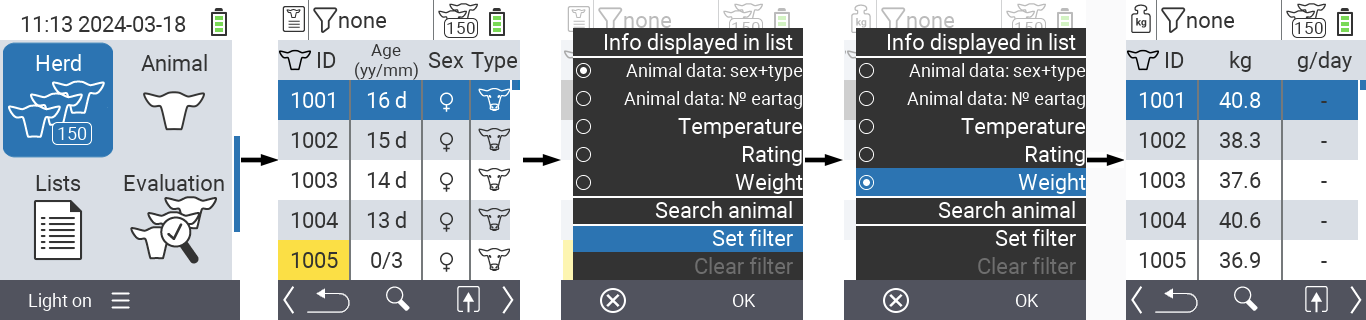
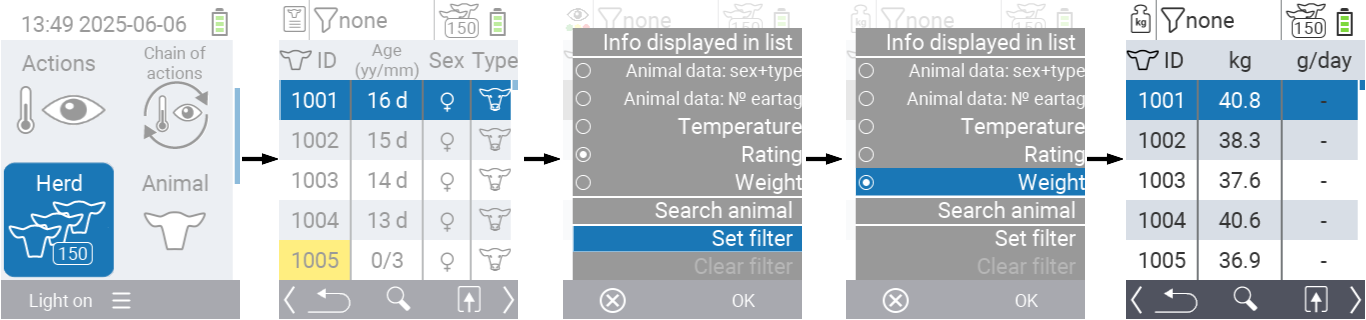
Menü 'Herde' restructure (#227)
* Restructure Herd description

* Changed structure and images after review

* Translation changing and restructure images

* Opacity to images added

* Final changes

diff --git a/content/en/docs/herd/_index.md b/content/en/docs/herd/_index.md
@@ -10,109 +10,135 @@ description: >
 categories: [Herd]
 tags: [Herd, Temperature, Weight, Rating, Animal data]
 translationKey: herd
+maphilight: true
 ---
-## Herd {#herd}
 
-Within the Herd menu item, you can view your entire herd, search for individual animals and display important information. You have the following possibilities:
+In this menu you have the following possibilities:
 
-- View [animal data](#view-animal-data)
-- View [temperature data](#display-temperature)
-- View [rating data](#view-rating)
-- View [weight data](#view-rating)
-- [Search animal](#search-animal)
-- Set [filter](#set-filter)
-- [Actions](#call-action-menu)
+- Perfom an [action](#call-action-menu) for the selected animal <img src="/digits/1_negative_circled.svg" width="20" align="middle" id="FigureOverview_Digit_1" alt="Circled digit 1" title="Digit 1"/>
+- [Search](#search-for-an-animal) or [filter](#apply-a-filter) animals  <img src="/digits/2_negative_circled.svg" width="20" align="middle" id="FigureOverview_Digit_2" alt="Circled digit 2" title="Digit 2"/>
+- [Configure display settings](#configure-display-settings) <img src="/digits/3_negative_circled.svg" width="20" align="middle" id="FigureOverview_Digit_3" alt="Circled digit 3" title="Digit 3"/>
 
-### Preparatory steps {#preparatory-steps}
+<figure class="figure" style="margin-top: 5px;">
+    <img src="images/overview.png" id="FigureOverview" usemap="#FigureOverviewMap" style="max-width: 60%;" class="border border-2 figure-img img-fluid rounded p-3" align="bottom" alt="Herd: Available options in Herd menu" title="Herd: Available options in Herd menu" />
+    <figcaption class="figure-caption fs-6"> Figure 1: <span style="font-style: italic;">Available options in Herd menu</figcaption>
+</figure>
 
-1. On the main screen of your VitalControl device, select the menu item <img src="/icons/main/herd.svg" width="60" align="bottom" alt="Herd" /> `{{<T "Herd" >}}` and press the `{{<T "Ok" >}}` button.
-
-2. Your herd overview opens.
-
-    ![VitalControl: Menu Herd](images/herde.png "Herd")
-
-### View animal data {#view-animal-data}
-
-1. Complete the preparatory steps.
-
-2. Use the `F3` key &nbsp;<img src="/icons/footer/open-popup.svg" width="15" align="bottom" alt="Open popup" />&nbsp; to invoke a popup menu that lists the information categories that can be displayed for the herd list. Use the arrow keys △ ▽ to highlight the line `{{<T "AnimalDataGenderType" >}}` or `{{<T "AnimalDataEartag" >}}` and select this category by pressing the central `{{<T "Ok" >}}` button or the `F3` key `{{<T "Ok" >}}`. The two selection options differ in the display of the information bar.
-
-3. Animal data will now be displayed as content of the herd list.
-
-4. Alternatively, you can use the arrow keys ◁ ▷ to switch between the different display options.
-
-    ![VitalControl: Menu Herd](images/animaldata.png "View animal data")
-
-{{% alert title = "Hint" %}}
-By default, the animal data is displayed first. Only when you have the weight displayed, for example, do you have to set the display of the animal data again.
-{{% /alert %}}
-
-### Display temperature {#display-temperature}
-
-1. Complete the preparatory steps.
-
-2. Use the `F3` key &nbsp;<img src="/icons/footer/open-popup.svg" width="15" align="bottom" alt="Open popup" />&nbsp; to invoke a popup menu that lists the information categories that can be displayed for the herd list. Use the arrow keys △ ▽ to highlight the line `{{<T "Temperature" >}}` and select this category by pressing the central `{{<T "Ok" >}}` button or the `F3` key `{{<T "Ok" >}}`.
-
-3. Temperature data will now be displayed as content of the herd list.
-
-4. Alternatively, you can use the arrow keys ◁ ▷ to switch between the different display options.
-
-    ![VitalControl: Menu Herd](images/temperature.png "Display temperature")
-
-### View rating {#view-rating}
-
-1. Complete the preparatory steps.
-
-2. Use the `F3` key &nbsp;<img src="/icons/footer/open-popup.svg" width="15" align="bottom" alt="Open popup" />&nbsp; to invoke a popup menu that lists the information categories that can be displayed for the herd list. Use the arrow keys △ ▽ to highlight the line `{{<T "Rating" >}}` and select this category by pressing the central `{{<T "Ok" >}}` button or the `F3` key `{{<T "Ok" >}}`.
-
-3. Rating data will now be displayed as content of the herd list.
-
-4. Alternatively, you can use the arrow keys ◁ ▷ to switch between the different display options.
-
-    ![VitalControl: Menu Herd](images/rating.png "View rating")
-
-### Display weight {#display-weight}
-
-1. Complete the preparatory steps.
-
-2. Use the `F3` key &nbsp;<img src="/icons/footer/open-popup.svg" width="15" align="bottom" alt="Open popup" />&nbsp; to invoke a popup menu that lists the information categories that can be displayed for the herd list. Use the arrow keys △ ▽ to highlight the line `{{<T "Weight" >}}` and select this category by pressing the central `{{<T "Ok" >}}` button or the `F3` key `{{<T "Ok" >}}`.
-
-3. Weight data will now be displayed as content of the herd list.
-
-4. Alternatively, you can use the arrow keys ◁ ▷ to switch between the different display options.
-
-    ![VitalControl: Menu Herd](images/weight.png "Display weight")
-
-### Search animal {#search-animal}
-
-1. Complete the preparatory steps.
-
-2. Use the `F3` key &nbsp;<img src="/icons/footer/open-popup.svg" width="15" align="bottom" alt="Open popup" />&nbsp; to invoke a popup menu that lists various options. Use the arrow keys △ ▽ to highlight the function `{{<T "SearchAnimal" >}}` and invoke the search function by pressing the central `{{<T "Ok" >}}` key or the `F3` key `{{<T "Ok" >}}`. Alternatively, you can use the `On/Off` button <img src="/icons/footer/search.svg" width="15" align="bottom" alt="Search" /> immediately after step one.
-
-3. Use the arrow keys △ ▽ ◁ ▷ to enter the desired animal number and confirm with `{{<T "Ok" >}}`.
-
-    ![VitalControl: Menu Herd](images/search.png "Search animal")
-
-### Set filter {#set-filter}
-
-1. Complete the preparatory steps.
-
-2. Use the `F3` key &nbsp;<img src="/icons/footer/open-popup.svg" width="15" align="bottom" alt="Open popup" />&nbsp; to invoke a popup menu that lists various options. Use the arrow keys △ ▽ to highlight the function `{{<T "SetFilter" >}}` and invoke the filter function by pressing the central `{{<T "Ok" >}}` key or the `F3` key `{{<T "Ok" >}}`.
-
-3. How to apply the filter can be found [here]({{< relref "../filter/" >}}).
-
-    ![VitalControl: Menu Herd](images/setfilter.png "Search animal")
+<map name="FigureOverviewMap">
+    <area shape="rect" coords="0,430,240,783" alt='{{<T "ChooseAction" >}}' title='{{<T "ChooseAction" >}}' href="#call-action-menu">
+    <area shape="rect" coords="312,430,550,783" alt='{{<T "SearchAnimal" >}}' title='{{<T "SearchAnimal" >}}' href="#search-for-an-animal">
+    <area shape="rect" coords="625,380,862,783" alt='{{<T "FurtherActions" >}}' title='{{<T "FurtherActions" >}}' href="#configure-display-settings">
+</map>
 
 ### Call action menu {#call-action-menu}
 
 You always have the option to call up the action menu for an animal.
 
-1. Complete the preparatory steps.
+1. On the main screen of your {{<T "VitalControl" >}} device, select the menu item &nbsp;<img src="/icons/main/herd.svg" width="60" align="bottom" alt="Open popup" />&nbsp; `{{<T "Herd" >}}` and press the `{{<T "Ok" >}}` button. Your herd overview opens.
 
-2. Select an animal from the list with the arrow keys △ ▽ and confirm with `{{<T "Ok" >}}`.
+2. Select an animal from the list with the arrow keys △ ▽ and confirm with `{{<T "Ok" >}}`. The action menu is now open. How to use this can be found [here](../actions).
 
-3. The action menu is now open. How to use this can be found [here](../actions).
-
-4. Return to the herd list with the `F3` key.
+4. Return to the herd list with the `F1`  &nbsp;<img src="/icons/footer/exit.svg" width="15" align="bottom" alt="Open popup" />&nbsp; key.
 
     ![VitalControl: Menu Herd](images/action.png "Call actions")
+
+### Search or filter animals {#search-or-filter-animals}
+
+It is also possible to search for a specific animal or set a filter.
+
+* `{{<T "SearchAnimal" >}}` <img src="/digits/1_negative_circled.svg" width="20" align="middle" alt="Circled digit 1" title="Digit 1"/>
+
+    Search for an animal allows you to search for an animal number using the arrow keys △ ▽ ◁ ▷. For more information about `{{<T "SearchAnimal" >}}` see [here]({{< relref "docs/filter/_index.md" >}}).
+
+* `{{<T "SetFilter" >}}` <img src="/digits/2_negative_circled.svg" width="20" align="middle" alt="Circled digit 2" title="Digit 2"/>
+
+    You can use the filter to limit which animals are displayed in the selection list. For more information about `{{<T "SetFilter" >}}` see [here]({{< relref "docs/filter/_index.md" >}}).
+
+<figure class="figure" style="margin-top: 5px;">
+    <img src="images/secondFlowChart.png" id="Figure2"  style="max-width: 60%;" class="border border-2 figure-img img-fluid rounded p-3" align="bottom" alt="Herd: Search and set filter" title="Herd: Search and set filter" />
+    <figcaption class="figure-caption fs-6">Figure 2: <span style="font-style: italic;">Search and set filter</figcaption>
+</figure>
+
+#### Search for an animal
+
+1. On the main screen of your {{<T "VitalControl" >}} device, select the menu item &nbsp;<img src="/icons/main/herd.svg" width="60" align="bottom" alt="Open popup" />&nbsp; `{{<T "Herd" >}}` and press the `{{<T "Ok" >}}` button. Your herd overview opens.
+
+1. Use the `F2` &nbsp;<img src="/icons/footer/search.svg" width="15" align="bottom" alt="Search" />&nbsp; to get to the search input. Alternatively use the `F3` key &nbsp;<img src="/icons/footer/open-popup.svg" width="15" align="bottom" alt="Open popup" />&nbsp; to invoke the popup menu that lists all the available options. Use the arrow keys △ ▽ to highlight `{{<T "SearchAnimal" >}}` and press the central `{{<T "Ok" >}}` button or the `F3` key `{{<T "Ok" >}}`.
+
+1. Further information about the search input can be found [here]().
+
+{{< tabpane >}}
+{{< tab header="Search:" text=true disabled=true />}}
+{{% tab header="Use of &nbsp;<img src='/icons/footer/search.svg' width='15' align='bottom' alt='Search' />&nbsp;" text=true %}}
+![VitalControl: Herd information display {{<T "SearchAnimal" >}}](images/searchF2.png "Display {{<T "SearchAnimal" >}} information")
+{{% /tab %}}
+{{% tab header="Use of &nbsp;<img src='/icons/footer/open-popup.svg' width='15' align='bottom' alt='Open popup' />&nbsp;" text=true %}}
+![VitalControl: Herd information display {{<T "SetFilter" >}}](images/search.png "Display {{<T "SetFilter" >}} information")
+{{% /tab %}}
+{{< /tabpane >}}
+
+#### Apply a filter
+
+1. On the main screen of your {{<T "VitalControl" >}} device, select the menu item &nbsp;<img src="/icons/main/herd.svg" width="60" align="bottom" alt="Open popup" />&nbsp; `{{<T "Herd" >}}` and press the `{{<T "Ok" >}}` button. Your herd overview opens.
+
+1. Use the `F3` key &nbsp;<img src="/icons/footer/open-popup.svg" width="15" align="bottom" alt="Open popup" />&nbsp; to invoke the popup menu that lists all the available options. Use the arrow keys △ ▽ to highlight `{{<T "SetFilter" >}}` and press the central `{{<T "Ok" >}}` button or the `F3` key `{{<T "Ok" >}}`.
+
+1. Further information about filter can be found [here](../filter/_index.md).
+
+![VitalControl: Menu Herd Filter](images/setfilter.png "Set a filter")
+
+### Configure display settings  {#configure-display-settings}
+
+Within the herd menu, you have several options to display the information of your animals in short form. All options are shown in [Figure 3](#Figure3) below.
+
+* `{{<T "AnimalDataGenderType" >}}` <img src="/digits/1_negative_circled.svg" width="20" align="middle" alt="Circled digit 1" title="Digit 1"/>
+
+    Under `{{<T "AnimalDataGenderType" >}}`, the two columns on the right show you both the sex and the type (cow, calf, sheep, lamb) of the respective animal.
+
+* `{{<T "AnimalDataEartag" >}}` <img src="/digits/2_negative_circled.svg" width="20" align="middle" alt="Circled digit 2" title="Digit 2"/>
+
+    Under `{{<T "AnimalDataEartag" >}}`, the right column show you the National animal ID of the respective animal.
+
+* `{{<T "Temperature" >}}` <img src="/digits/3_negative_circled.svg" width="20" align="middle" alt="Circled digit 3" title="Digit 3"/>
+
+    When you select `{{<T "Temperature" >}}`, the last measured temperature of the animal is displayed in the middle column. The right-hand column shows you how often which temperature category was measured for the respective animal in the last seven days.
+
+* `{{<T "Rating" >}}` <img src="/digits/4_negative_circled.svg" width="20" align="middle" alt="Circled digit 4" title="Digit 4"/>
+
+    By selecting `{{<T "Rating" >}}`, the most recent rating and the last two past ratings are displayed in the middle column. In the right-hand column you will find the frequencies of the respective score.
+
+* `{{<T "Weight" >}}` <img src="/digits/5_negative_circled.svg" width="20" align="middle" alt="Circled digit 5" title="Digit 5"/>
+
+    With selecting `{{<T "Weight" >}}`, the last recorded weight of the animal is displayed in the middle column. In the right-hand column you will find the daily weight gain.
+
+<figure class="figure" style="margin-top: 5px;">
+    <img src="images/flowChartHerdMinimal.png" id="Figure3" class="border border-2 figure-img img-fluid rounded p-3" align="bottom" alt="Herd: Available information display in Herd menu" title="Herd: Available information display in Herd menu" />
+    <figcaption class="figure-caption fs-6">Figure 3: <span style="font-style: italic;">Available information display in Herd menu</figcaption>
+</figure>
+
+To display the desired information, proceed as follows:
+
+1. On the main screen of your {{<T "VitalControl" >}} device, select the menu item &nbsp;<img src="/icons/main/herd.svg" width="60" align="bottom" alt="Open popup" />&nbsp; `{{<T "Herd" >}}` and press the `{{<T "Ok" >}}` button. Your herd overview opens.
+
+1. Use the `F3` key &nbsp;<img src="/icons/footer/open-popup.svg" width="15" align="bottom" alt="Open popup" />&nbsp; to invoke the popup menu that lists the information categories. Use the arrow keys △ ▽ to highlight your desired selection and display this category by pressing the central `{{<T "Ok" >}}` button or the `F3` key `{{<T "Ok" >}}`.
+
+1. Alternatively, you can use the arrow keys ◁ ▷ to switch between the different display options.
+
+{{< tabpane >}}
+{{< tab header="Display settings: " text=true disabled=true />}}
+{{% tab header="{{< T \"AnimalDataGenderType\" >}}" text=true %}}
+![VitalControl: Herd information display {{<T "AnimalDataGenderType" >}}](images/animaldataGender.png "Display {{<T "AnimalDataGenderType" >}} information")
+{{% /tab %}}
+{{% tab header="{{< T \"AnimalDataEartag\" >}}" text=true %}}
+![VitalControl: Herd information display {{<T "AnimalDataEartag" >}}](images/animaldata.png "Display {{<T "AnimalDataEartag" >}} information")
+{{% /tab %}}
+{{% tab header="{{< T \"Temperature\" >}}" text=true %}}
+![VitalControl: Herd information display {{<T "Temperature" >}}](images/temperature.png "Display {{<T "Temperature" >}} information")
+{{% /tab %}}
+{{% tab header="{{< T \"Rating\" >}}" text=true %}}
+![VitalControl: Herd information display {{<T "Rating" >}}](images/rating.png "Display {{<T "Rating" >}} information")
+{{% /tab %}}
+{{% tab header="{{< T \"Weight\" >}}" text=true %}}
+![VitalControl: Herd information display {{<T "Weight" >}}](images/weight.png "Display {{<T "Weight" >}} information")
+{{% /tab %}}
+{{< /tabpane >}}
